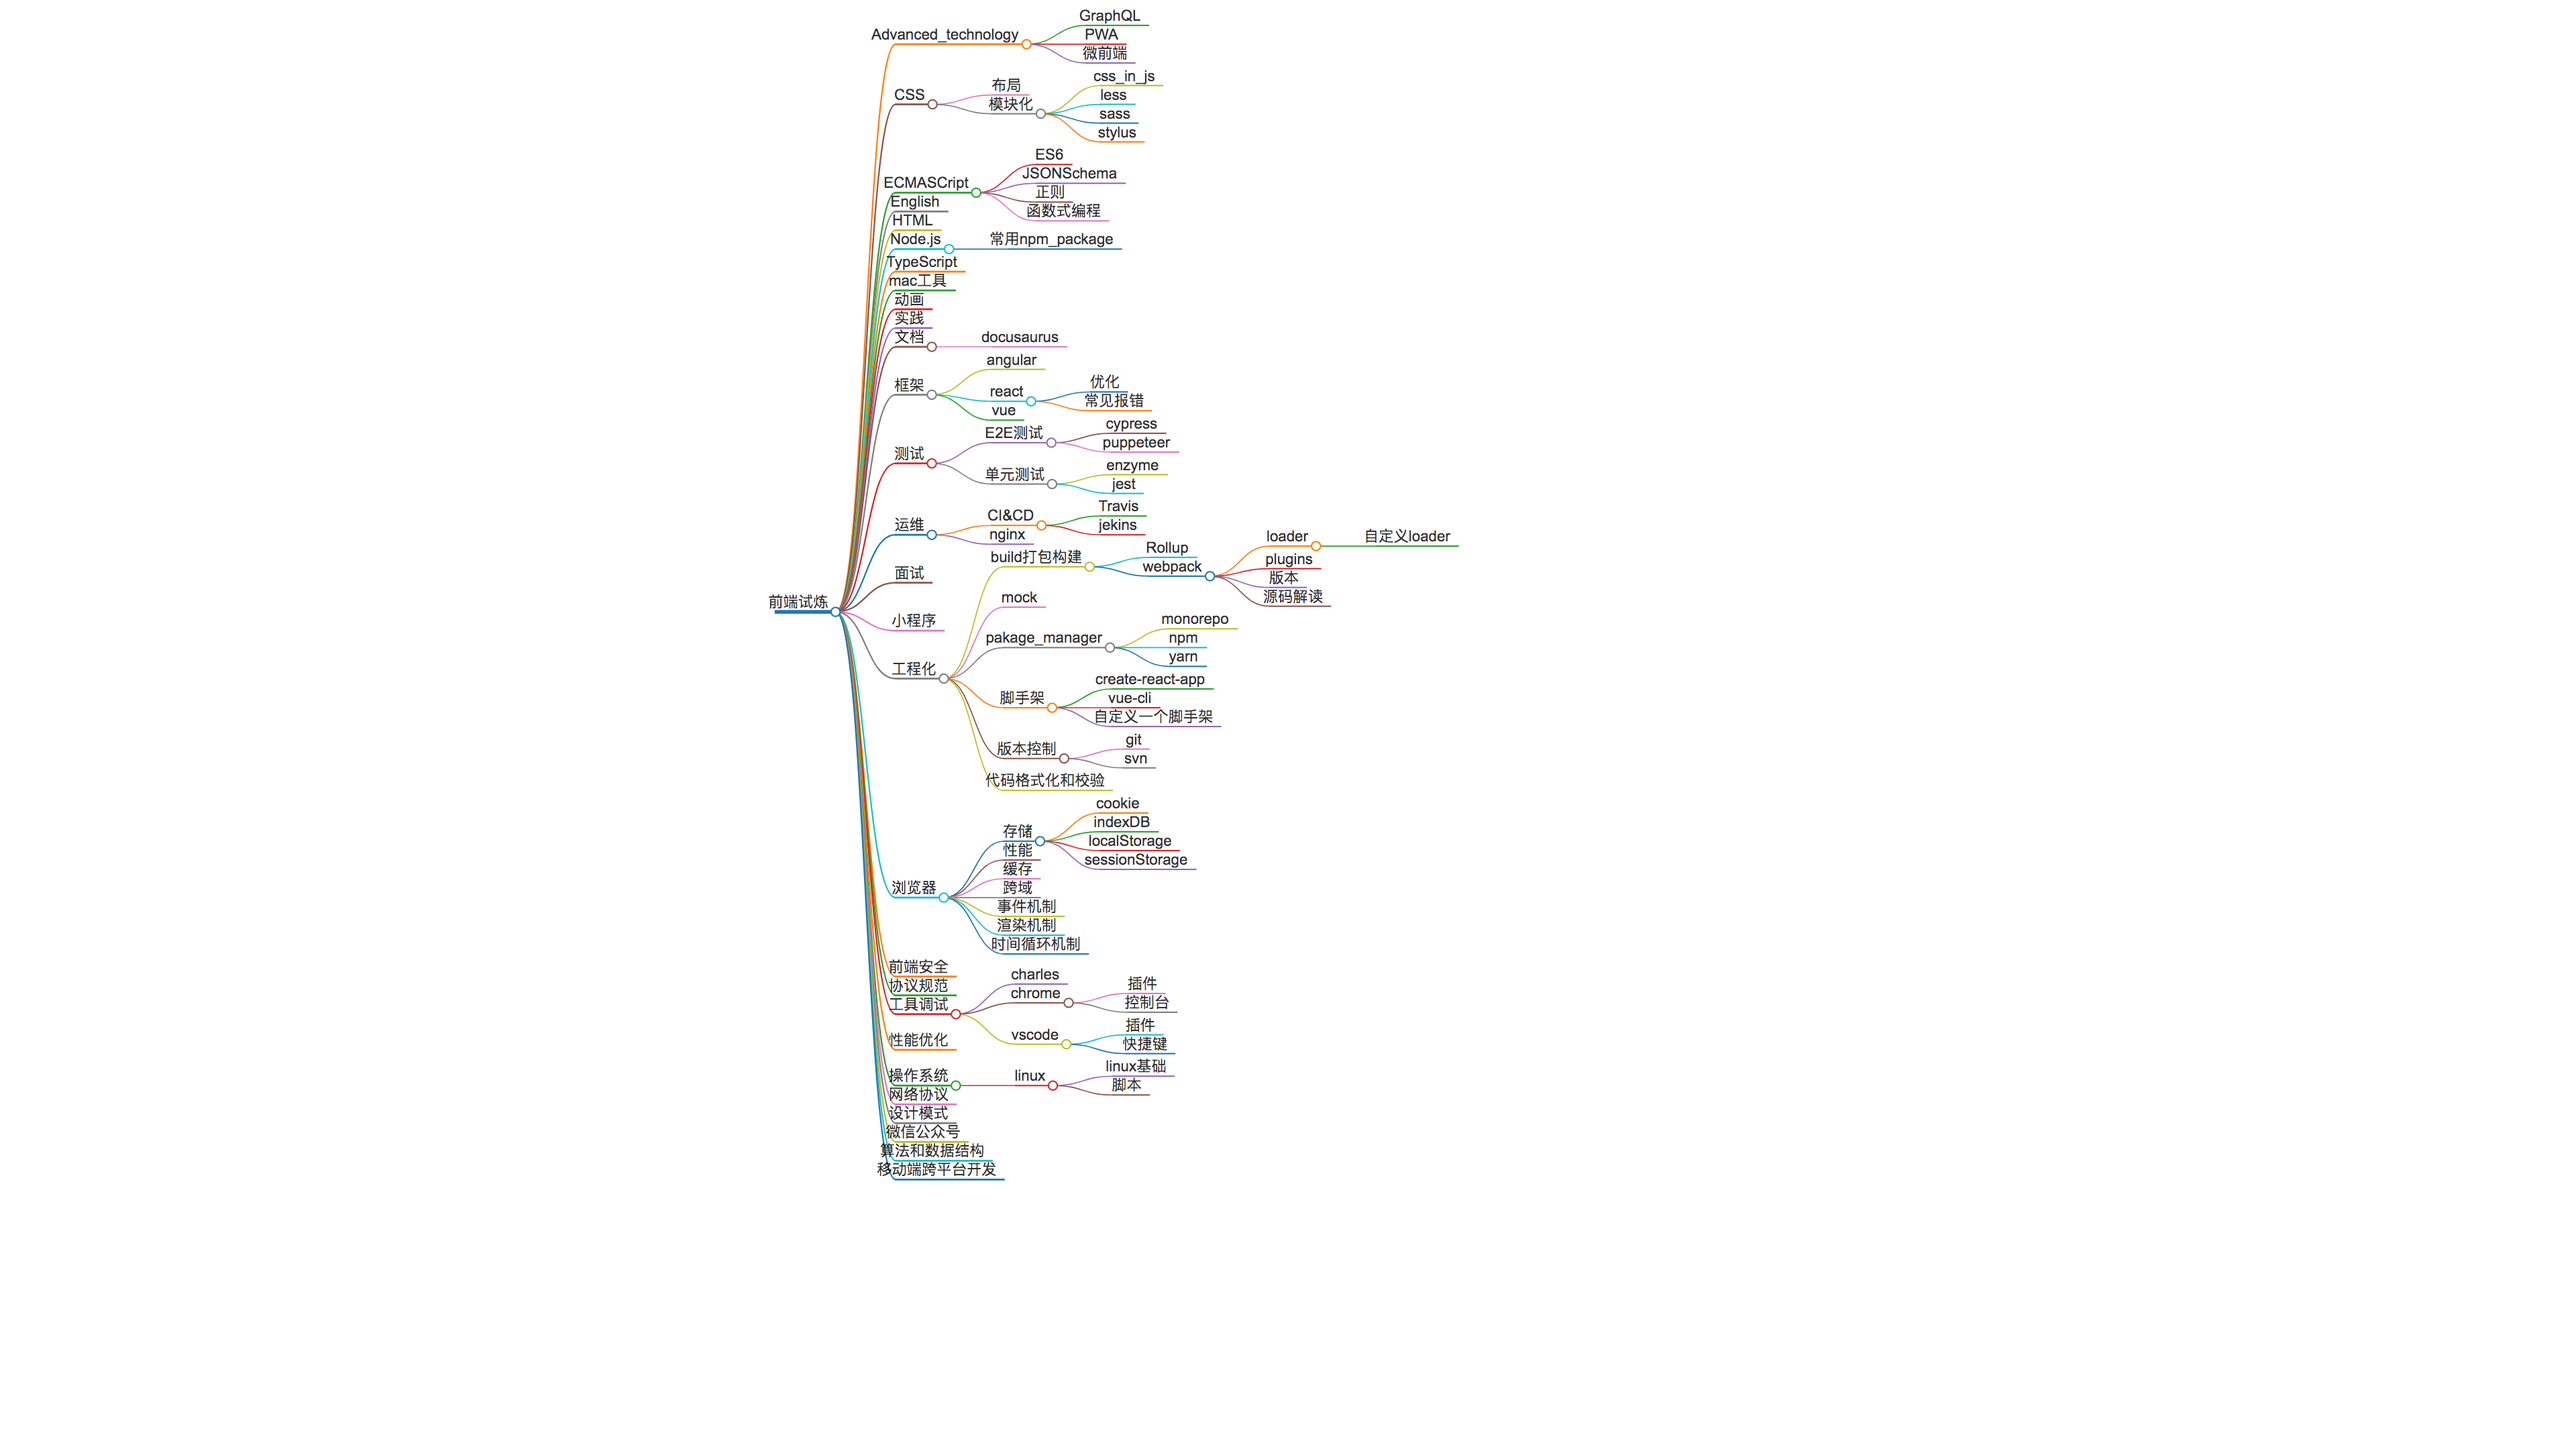
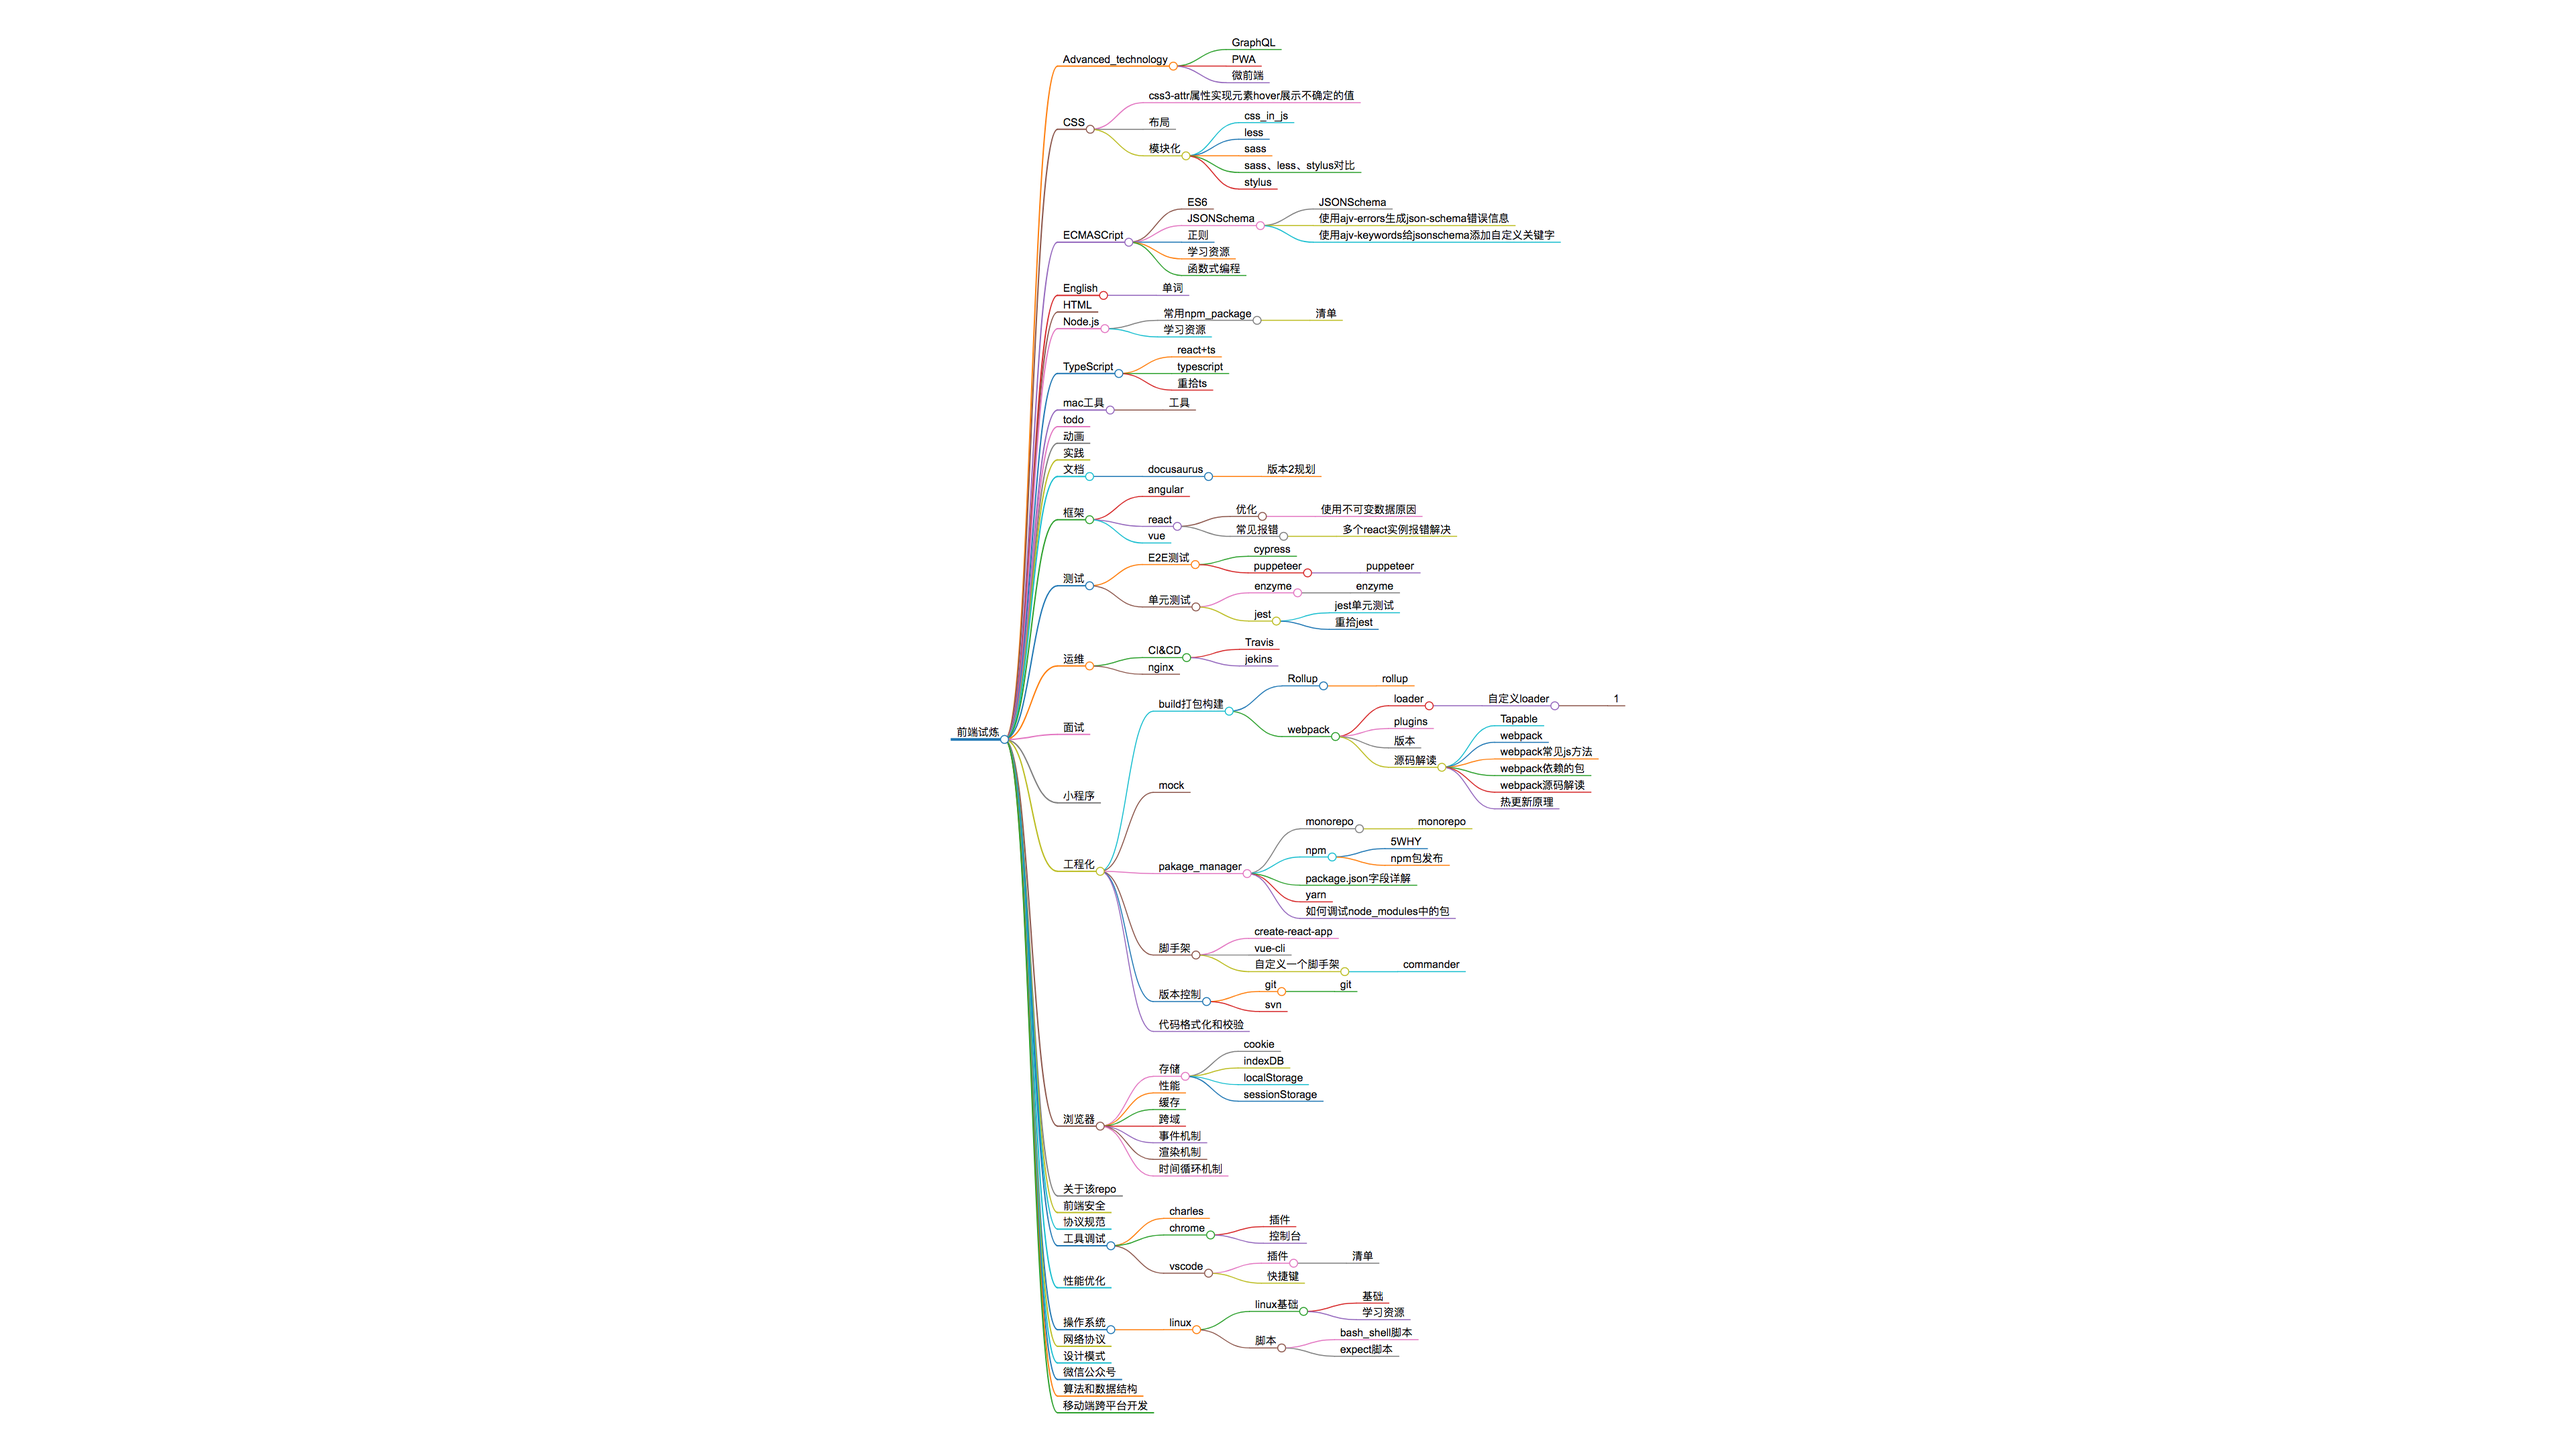
Deploy website - based on 71c7fe81421ed4b6f00af8a0d7c6120aeba135c8

Changed region(s): [[0.2812, 0.0, 0.5938, 0.9926], [0.5, 0.4653, 0.625, 0.5583]]

diff --git a/xmind.html b/xmind.html
@@ -28,6 +28,6 @@
         (init ? init(loadPlugins, items, opts) : Promise.resolve()).then(() => {
           window.mm = Markmap.create('svg#mindmap', null, data);
         });
-      })({"t":"heading","d":1,"v":"前端试炼","c":[{"t":"list_item","d":2,"v":"Advanced_technology","c":[{"t":"list_item","d":3,"v":"GraphQL"},{"t":"list_item","d":3,"v":"PWA"},{"t":"list_item","d":3,"v":"微前端"}]},{"t":"list_item","d":2,"v":"CSS","c":[{"t":"list_item","d":3,"v":"布局"},{"t":"list_item","d":3,"v":"模块化","c":[{"t":"list_item","d":4,"v":"css_in_js"},{"t":"list_item","d":4,"v":"less"},{"t":"list_item","d":4,"v":"sass"},{"t":"list_item","d":4,"v":"stylus"}]}]},{"t":"list_item","d":2,"v":"ECMASCript","c":[{"t":"list_item","d":3,"v":"ES6"},{"t":"list_item","d":3,"v":"JSONSchema"},{"t":"list_item","d":3,"v":"正则"},{"t":"list_item","d":3,"v":"函数式编程"}]},{"t":"list_item","d":2,"v":"English"},{"t":"list_item","d":2,"v":"HTML"},{"t":"list_item","d":2,"v":"Node.js","c":[{"t":"list_item","d":3,"v":"常用npm_package"}]},{"t":"list_item","d":2,"v":"TypeScript"},{"t":"list_item","d":2,"v":"mac工具"},{"t":"list_item","d":2,"v":"动画"},{"t":"list_item","d":2,"v":"实践"},{"t":"list_item","d":2,"v":"文档","c":[{"t":"list_item","d":3,"v":"docusaurus"}]},{"t":"list_item","d":2,"v":"框架","c":[{"t":"list_item","d":3,"v":"angular"},{"t":"list_item","d":3,"v":"react","c":[{"t":"list_item","d":4,"v":"优化"},{"t":"list_item","d":4,"v":"常见报错"}]},{"t":"list_item","d":3,"v":"vue"}]},{"t":"list_item","d":2,"v":"测试","c":[{"t":"list_item","d":3,"v":"E2E测试","c":[{"t":"list_item","d":4,"v":"cypress"},{"t":"list_item","d":4,"v":"puppeteer"}]},{"t":"list_item","d":3,"v":"单元测试","c":[{"t":"list_item","d":4,"v":"enzyme"},{"t":"list_item","d":4,"v":"jest"}]}]},{"t":"list_item","d":2,"v":"运维","c":[{"t":"list_item","d":3,"v":"CI&amp;CD","c":[{"t":"list_item","d":4,"v":"Travis"},{"t":"list_item","d":4,"v":"jekins"}]},{"t":"list_item","d":3,"v":"nginx"}]},{"t":"list_item","d":2,"v":"面试"},{"t":"list_item","d":2,"v":"小程序"},{"t":"list_item","d":2,"v":"工程化","c":[{"t":"list_item","d":3,"v":"build打包构建","c":[{"t":"list_item","d":4,"v":"Rollup"},{"t":"list_item","d":4,"v":"webpack","c":[{"t":"list_item","d":5,"v":"loader","c":[{"t":"list_item","d":6,"v":"自定义loader"}]},{"t":"list_item","d":5,"v":"plugins"},{"t":"list_item","d":5,"v":"版本"},{"t":"list_item","d":5,"v":"源码解读"}]}]},{"t":"list_item","d":3,"v":"mock"},{"t":"list_item","d":3,"v":"pakage_manager","c":[{"t":"list_item","d":4,"v":"monorepo"},{"t":"list_item","d":4,"v":"npm"},{"t":"list_item","d":4,"v":"yarn"}]},{"t":"list_item","d":3,"v":"脚手架","c":[{"t":"list_item","d":4,"v":"create-react-app"},{"t":"list_item","d":4,"v":"vue-cli"},{"t":"list_item","d":4,"v":"自定义一个脚手架"}]},{"t":"list_item","d":3,"v":"版本控制","c":[{"t":"list_item","d":4,"v":"git"},{"t":"list_item","d":4,"v":"svn"}]},{"t":"list_item","d":3,"v":"代码格式化和校验"}]},{"t":"list_item","d":2,"v":"浏览器","c":[{"t":"list_item","d":3,"v":"存储","c":[{"t":"list_item","d":4,"v":"cookie"},{"t":"list_item","d":4,"v":"indexDB"},{"t":"list_item","d":4,"v":"localStorage"},{"t":"list_item","d":4,"v":"sessionStorage"}]},{"t":"list_item","d":3,"v":"性能"},{"t":"list_item","d":3,"v":"缓存"},{"t":"list_item","d":3,"v":"跨域"},{"t":"list_item","d":3,"v":"事件机制"},{"t":"list_item","d":3,"v":"渲染机制"},{"t":"list_item","d":3,"v":"时间循环机制"}]},{"t":"list_item","d":2,"v":"前端安全"},{"t":"list_item","d":2,"v":"协议规范"},{"t":"list_item","d":2,"v":"工具调试","c":[{"t":"list_item","d":3,"v":"charles"},{"t":"list_item","d":3,"v":"chrome","c":[{"t":"list_item","d":4,"v":"插件"},{"t":"list_item","d":4,"v":"控制台"}]},{"t":"list_item","d":3,"v":"vscode","c":[{"t":"list_item","d":4,"v":"插件"},{"t":"list_item","d":4,"v":"快捷键"}]}]},{"t":"list_item","d":2,"v":"性能优化"},{"t":"list_item","d":2,"v":"操作系统","c":[{"t":"list_item","d":3,"v":"linux","c":[{"t":"list_item","d":4,"v":"linux基础"},{"t":"list_item","d":4,"v":"脚本"}]}]},{"t":"list_item","d":2,"v":"网络协议"},{"t":"list_item","d":2,"v":"设计模式"},{"t":"list_item","d":2,"v":"微信公众号"},{"t":"list_item","d":2,"v":"算法和数据结构"},{"t":"list_item","d":2,"v":"移动端跨平台开发"}]},(loadPlugins, items, opts) => loadPlugins(items, opts),["prism"],{"prism":true})</script>
+      })({"t":"heading","d":1,"v":"前端试炼","c":[{"t":"list_item","d":2,"v":"Advanced_technology","c":[{"t":"list_item","d":3,"v":"GraphQL"},{"t":"list_item","d":3,"v":"PWA"},{"t":"list_item","d":3,"v":"微前端"}]},{"t":"list_item","d":2,"v":"CSS","c":[{"t":"list_item","d":3,"v":"css3-attr属性实现元素hover展示不确定的值"},{"t":"list_item","d":3,"v":"布局"},{"t":"list_item","d":3,"v":"模块化","c":[{"t":"list_item","d":4,"v":"css_in_js"},{"t":"list_item","d":4,"v":"less"},{"t":"list_item","d":4,"v":"sass"},{"t":"list_item","d":4,"v":"sass、less、stylus对比"},{"t":"list_item","d":4,"v":"stylus"}]}]},{"t":"list_item","d":2,"v":"ECMASCript","c":[{"t":"list_item","d":3,"v":"ES6"},{"t":"list_item","d":3,"v":"JSONSchema","c":[{"t":"list_item","d":4,"v":"JSONSchema"},{"t":"list_item","d":4,"v":"使用ajv-errors生成json-schema错误信息"},{"t":"list_item","d":4,"v":"使用ajv-keywords给jsonschema添加自定义关键字"}]},{"t":"list_item","d":3,"v":"正则"},{"t":"list_item","d":3,"v":"学习资源"},{"t":"list_item","d":3,"v":"函数式编程"}]},{"t":"list_item","d":2,"v":"English","c":[{"t":"list_item","d":3,"v":"单词"}]},{"t":"list_item","d":2,"v":"HTML"},{"t":"list_item","d":2,"v":"Node.js","c":[{"t":"list_item","d":3,"v":"常用npm_package","c":[{"t":"list_item","d":4,"v":"清单"}]},{"t":"list_item","d":3,"v":"学习资源"}]},{"t":"list_item","d":2,"v":"TypeScript","c":[{"t":"list_item","d":3,"v":"react+ts"},{"t":"list_item","d":3,"v":"typescript"},{"t":"list_item","d":3,"v":"重拾ts"}]},{"t":"list_item","d":2,"v":"mac工具","c":[{"t":"list_item","d":3,"v":"工具"}]},{"t":"list_item","d":2,"v":"todo"},{"t":"list_item","d":2,"v":"动画"},{"t":"list_item","d":2,"v":"实践"},{"t":"list_item","d":2,"v":"文档","c":[{"t":"list_item","d":3,"v":"docusaurus","c":[{"t":"list_item","d":4,"v":"版本2规划"}]}]},{"t":"list_item","d":2,"v":"框架","c":[{"t":"list_item","d":3,"v":"angular"},{"t":"list_item","d":3,"v":"react","c":[{"t":"list_item","d":4,"v":"优化","c":[{"t":"list_item","d":5,"v":"使用不可变数据原因"}]},{"t":"list_item","d":4,"v":"常见报错","c":[{"t":"list_item","d":5,"v":"多个react实例报错解决"}]}]},{"t":"list_item","d":3,"v":"vue"}]},{"t":"list_item","d":2,"v":"测试","c":[{"t":"list_item","d":3,"v":"E2E测试","c":[{"t":"list_item","d":4,"v":"cypress"},{"t":"list_item","d":4,"v":"puppeteer","c":[{"t":"list_item","d":5,"v":"puppeteer"}]}]},{"t":"list_item","d":3,"v":"单元测试","c":[{"t":"list_item","d":4,"v":"enzyme","c":[{"t":"list_item","d":5,"v":"enzyme"}]},{"t":"list_item","d":4,"v":"jest","c":[{"t":"list_item","d":5,"v":"jest单元测试"},{"t":"list_item","d":5,"v":"重拾jest"}]}]}]},{"t":"list_item","d":2,"v":"运维","c":[{"t":"list_item","d":3,"v":"CI&amp;CD","c":[{"t":"list_item","d":4,"v":"Travis"},{"t":"list_item","d":4,"v":"jekins"}]},{"t":"list_item","d":3,"v":"nginx"}]},{"t":"list_item","d":2,"v":"面试"},{"t":"list_item","d":2,"v":"小程序"},{"t":"list_item","d":2,"v":"工程化","c":[{"t":"list_item","d":3,"v":"build打包构建","c":[{"t":"list_item","d":4,"v":"Rollup","c":[{"t":"list_item","d":5,"v":"rollup"}]},{"t":"list_item","d":4,"v":"webpack","c":[{"t":"list_item","d":5,"v":"loader","c":[{"t":"list_item","d":6,"v":"自定义loader","c":[{"t":"list_item","d":7,"v":"1"}]}]},{"t":"list_item","d":5,"v":"plugins"},{"t":"list_item","d":5,"v":"版本"},{"t":"list_item","d":5,"v":"源码解读","c":[{"t":"list_item","d":6,"v":"Tapable"},{"t":"list_item","d":6,"v":"webpack"},{"t":"list_item","d":6,"v":"webpack常见js方法"},{"t":"list_item","d":6,"v":"webpack依赖的包"},{"t":"list_item","d":6,"v":"webpack源码解读"},{"t":"list_item","d":6,"v":"热更新原理"}]}]}]},{"t":"list_item","d":3,"v":"mock"},{"t":"list_item","d":3,"v":"pakage_manager","c":[{"t":"list_item","d":4,"v":"monorepo","c":[{"t":"list_item","d":5,"v":"monorepo"}]},{"t":"list_item","d":4,"v":"npm","c":[{"t":"list_item","d":5,"v":"5WHY"},{"t":"list_item","d":5,"v":"npm包发布"}]},{"t":"list_item","d":4,"v":"package.json字段详解"},{"t":"list_item","d":4,"v":"yarn"},{"t":"list_item","d":4,"v":"如何调试node_modules中的包"}]},{"t":"list_item","d":3,"v":"脚手架","c":[{"t":"list_item","d":4,"v":"create-react-app"},{"t":"list_item","d":4,"v":"vue-cli"},{"t":"list_item","d":4,"v":"自定义一个脚手架","c":[{"t":"list_item","d":5,"v":"commander"}]}]},{"t":"list_item","d":3,"v":"版本控制","c":[{"t":"list_item","d":4,"v":"git","c":[{"t":"list_item","d":5,"v":"git"}]},{"t":"list_item","d":4,"v":"svn"}]},{"t":"list_item","d":3,"v":"代码格式化和校验"}]},{"t":"list_item","d":2,"v":"浏览器","c":[{"t":"list_item","d":3,"v":"存储","c":[{"t":"list_item","d":4,"v":"cookie"},{"t":"list_item","d":4,"v":"indexDB"},{"t":"list_item","d":4,"v":"localStorage"},{"t":"list_item","d":4,"v":"sessionStorage"}]},{"t":"list_item","d":3,"v":"性能"},{"t":"list_item","d":3,"v":"缓存"},{"t":"list_item","d":3,"v":"跨域"},{"t":"list_item","d":3,"v":"事件机制"},{"t":"list_item","d":3,"v":"渲染机制"},{"t":"list_item","d":3,"v":"时间循环机制"}]},{"t":"list_item","d":2,"v":"关于该repo"},{"t":"list_item","d":2,"v":"前端安全"},{"t":"list_item","d":2,"v":"协议规范"},{"t":"list_item","d":2,"v":"工具调试","c":[{"t":"list_item","d":3,"v":"charles"},{"t":"list_item","d":3,"v":"chrome","c":[{"t":"list_item","d":4,"v":"插件"},{"t":"list_item","d":4,"v":"控制台"}]},{"t":"list_item","d":3,"v":"vscode","c":[{"t":"list_item","d":4,"v":"插件","c":[{"t":"list_item","d":5,"v":"清单"}]},{"t":"list_item","d":4,"v":"快捷键"}]}]},{"t":"list_item","d":2,"v":"性能优化"},{"t":"list_item","d":2,"v":"操作系统","c":[{"t":"list_item","d":3,"v":"linux","c":[{"t":"list_item","d":4,"v":"linux基础","c":[{"t":"list_item","d":5,"v":"基础"},{"t":"list_item","d":5,"v":"学习资源"}]},{"t":"list_item","d":4,"v":"脚本","c":[{"t":"list_item","d":5,"v":"bash_shell脚本"},{"t":"list_item","d":5,"v":"expect脚本"}]}]}]},{"t":"list_item","d":2,"v":"网络协议"},{"t":"list_item","d":2,"v":"设计模式"},{"t":"list_item","d":2,"v":"微信公众号"},{"t":"list_item","d":2,"v":"算法和数据结构"},{"t":"list_item","d":2,"v":"移动端跨平台开发"}]},(loadPlugins, items, opts) => loadPlugins(items, opts),["prism"],{"prism":true})</script>
 </body>
 </html>
